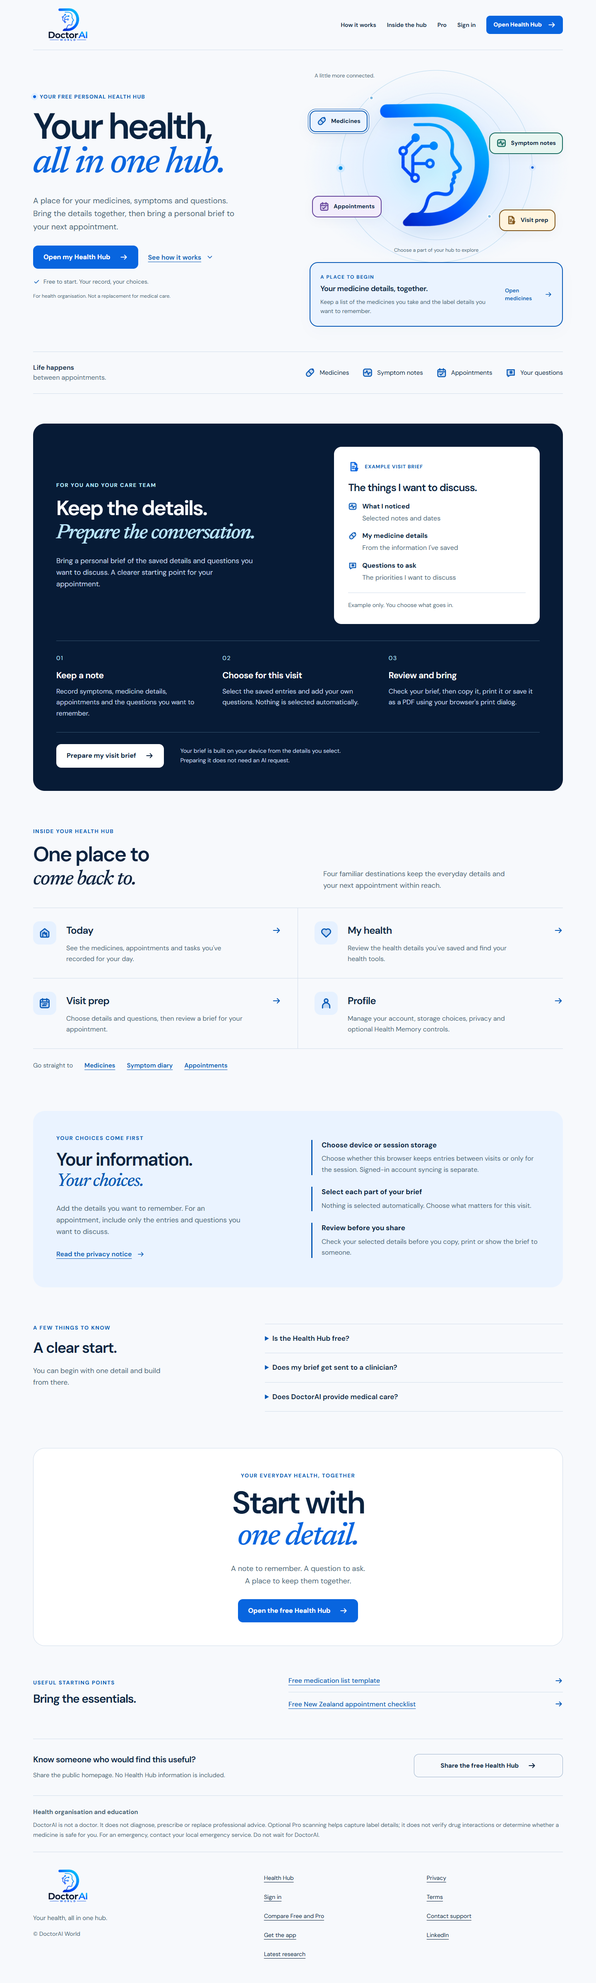
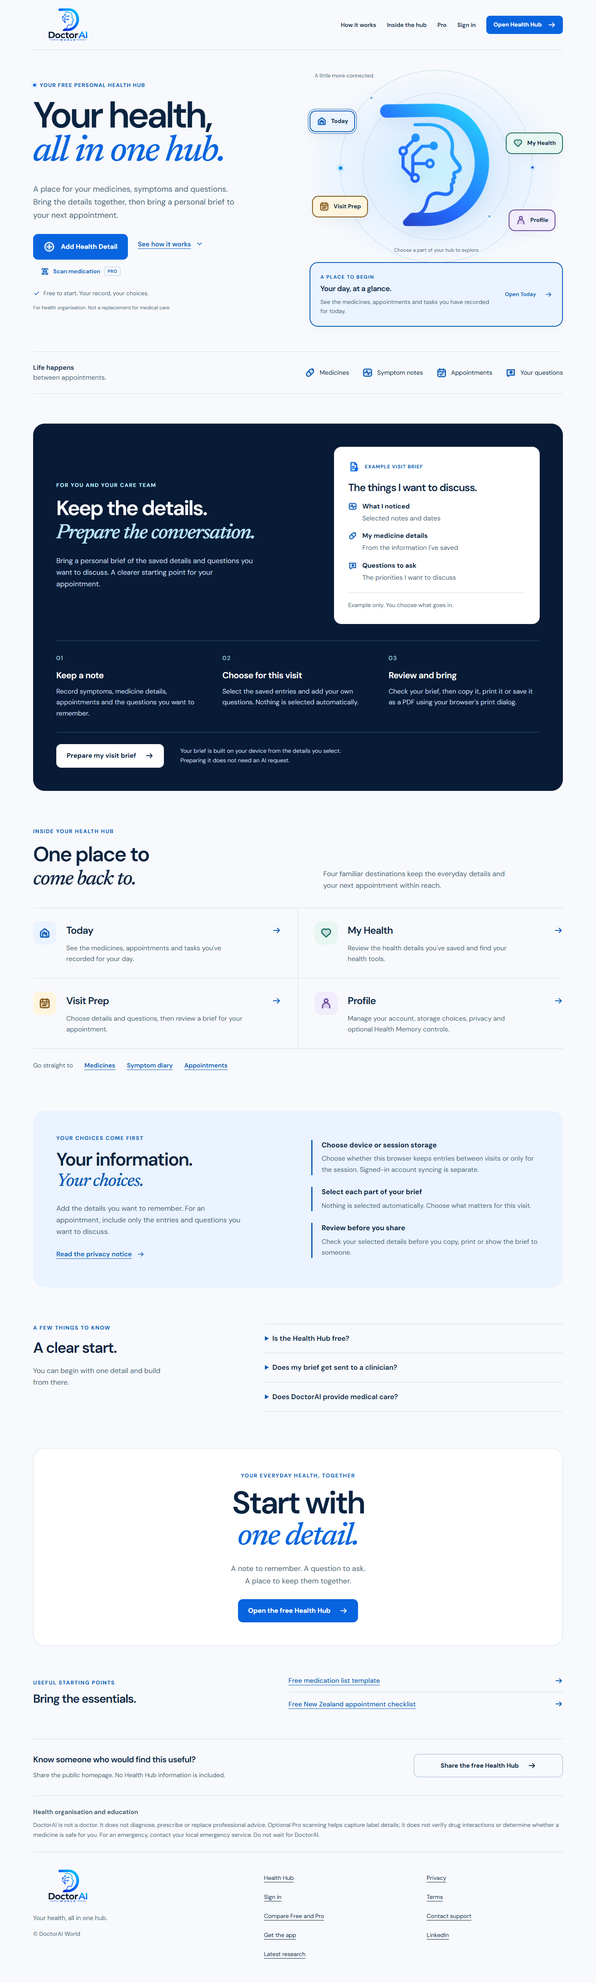
Align homepage with main categories and add-detail actions

diff --git a/welcome.css b/welcome.css
@@ -12,12 +12,12 @@
   --home-paper: #f7f9fc;
   --home-line: #d2deeb;
   --home-gutter: clamp(20px, 4vw, 64px);
-  --home-medicines-surface: #eaf3ff;
-  --home-medicines-accent: #0759b6;
-  --home-symptoms-surface: #e8f6f1;
-  --home-symptoms-accent: #176b60;
-  --home-appointments-surface: #f2edfc;
-  --home-appointments-accent: #65439b;
+  --home-today-surface: #eaf3ff;
+  --home-today-accent: #0759b6;
+  --home-health-surface: #e8f6f1;
+  --home-health-accent: #176b60;
+  --home-profile-surface: #f2edfc;
+  --home-profile-accent: #65439b;
   --home-visit-surface: #fff4de;
   --home-visit-accent: #805418;
 }
@@ -62,7 +62,15 @@ h1, h2, h3 { margin: 0; }
 .home-hero h1 em { display: block; color: var(--home-bright); }
 .home-hero em, .home-section-heading em, .home-control em, .home-invitation em { font-family: 'Newsreader', Georgia, serif; font-weight: 500; letter-spacing: -.04em; }
 .home-lead { max-width: 39ch; margin: 28px 0 0; font-size: 19px; color: var(--home-muted); }
-.home-actions { display: flex; align-items: center; flex-wrap: wrap; gap: 12px 24px; margin-top: 30px; }
+.home-actions { display: flex; align-items: flex-start; flex-wrap: wrap; gap: 12px 24px; margin-top: 30px; }
+.home-add-actions { display: grid; gap: 6px; max-width: 100%; }
+.home-add-detail { gap: 14px; justify-content: flex-start; }
+.home-add-detail > span { width: 28px; height: 28px; flex-basis: 28px; }
+.home-add-detail svg { stroke-width: 2.6; }
+.home-scan-link { display: flex; align-items: center; justify-content: center; gap: 10px; min-height: 44px; padding: 8px 12px; color: var(--home-blue); font-size: 14px; font-weight: 600; text-decoration: none; border-radius: 9px; }
+.home-scan-link:hover { text-decoration: underline; background: #eaf3ff; }
+.home-scan-link > span { display: inline-flex; width: 21px; height: 21px; flex: 0 0 21px; }
+.home-scan-link small { padding: 3px 7px; border: 1px solid #b6cae1; border-radius: 5px; font-size: 11px; line-height: 1.3; letter-spacing: .04em; text-transform: uppercase; }
 .home-control-note { display: flex; align-items: center; gap: 8px; margin: 20px 0 0; font-size: 14px; color: var(--home-muted); }
 .home-control-note > span { display: inline-flex; width: 17px; height: 17px; color: var(--home-blue); }
 .home-hero-limit { max-width: 46ch; margin: 14px 0 0; color: var(--home-muted); font-size: 12px; }
@@ -84,20 +92,20 @@ h1, h2, h3 { margin: 0; }
 .home-orbit-track span { position: absolute; width: 9px; height: 9px; top: 50%; left: -4px; border-radius: 50%; background: #078de0; box-shadow: 0 0 0 6px #d2ebff; }
 .home-orbit-track span + span { left: auto; right: -4px; width: 6px; height: 6px; background: #0761d7; box-shadow: 0 0 0 5px #dbeaff; }
 .home-logo-tilt { position: absolute; inset: -13% 4% -5%; transform: perspective(850px) rotateX(var(--home-tilt-x, 0deg)) rotateY(var(--home-tilt-y, 0deg)); transition: transform .35s ease-out; }
-.home-hero-logo { display: block; width: 100%; height: 100%; object-fit: contain; filter: drop-shadow(0 18px 16px #0759b61c); animation: home-logo-float 7s ease-in-out infinite; animation-play-state: paused; }
+.home-hero-logo { display: block; opacity: .84; width: 100%; height: 100%; object-fit: contain; filter: drop-shadow(0 18px 16px #0759b61c); animation: home-logo-float 7s ease-in-out infinite; animation-play-state: paused; }
 .home-motion-ready:not(.home-motion-paused) :is(.home-hero-logo, .home-orbit-track) { animation-play-state: running; }
-[data-home-theme="medicines"], .home-orbit-medicines { --home-topic-surface: var(--home-medicines-surface); --home-topic-accent: var(--home-medicines-accent); }
-[data-home-theme="symptoms"], .home-orbit-symptoms { --home-topic-surface: var(--home-symptoms-surface); --home-topic-accent: var(--home-symptoms-accent); }
-[data-home-theme="appointments"], .home-orbit-appointments { --home-topic-surface: var(--home-appointments-surface); --home-topic-accent: var(--home-appointments-accent); }
+[data-home-theme="today"], .home-orbit-today { --home-topic-surface: var(--home-today-surface); --home-topic-accent: var(--home-today-accent); }
+[data-home-theme="health"], .home-orbit-health { --home-topic-surface: var(--home-health-surface); --home-topic-accent: var(--home-health-accent); }
+[data-home-theme="profile"], .home-orbit-profile { --home-topic-surface: var(--home-profile-surface); --home-topic-accent: var(--home-profile-accent); }
 [data-home-theme="visit"], .home-orbit-visit { --home-topic-surface: var(--home-visit-surface); --home-topic-accent: var(--home-visit-accent); }
 .home-orbit-topic { position: absolute; display: inline-flex; align-items: center; gap: 10px; min-height: 52px; max-width: 48%; padding: 11px 15px; border: 2px solid var(--home-topic-accent); border-radius: 15px; background: var(--home-topic-surface); color: var(--home-ink); box-shadow: 0 7px 24px #0a234009; font-size: 14px; font-weight: 700; line-height: 1.4; text-align: left; cursor: pointer; transition: box-shadow .2s ease, transform .2s ease; }
 .home-orbit-topic > span { display: inline-flex; width: 25px; height: 25px; flex: 0 0 25px; color: var(--home-topic-accent); }
 .home-orbit-topic:hover { transform: translateY(-3px); box-shadow: 0 10px 24px #0a234010; }
 .home-orbit-topic[aria-pressed="true"] { box-shadow: 0 0 0 3px var(--home-paper), 0 0 0 4px var(--home-topic-accent), 0 8px 28px #0a234010; }
-.home-orbit-medicines { top: 15%; left: 0; }
-.home-orbit-symptoms { top: 28%; right: 0; }
-.home-orbit-appointments { bottom: 22%; left: 1%; }
-.home-orbit-visit { bottom: 14%; right: 3%; }
+.home-orbit-today { top: 15%; left: 0; }
+.home-orbit-health { top: 28%; right: 0; }
+.home-orbit-visit { bottom: 22%; left: 1%; }
+.home-orbit-profile { bottom: 14%; right: 3%; }
 .home-orbit-caption { position: absolute; bottom: 0; width: 100%; margin: 0; color: var(--home-muted); text-align: center; font-size: 12px; }
 .home-topic-detail { position: relative; display: flex; align-items: center; justify-content: space-between; gap: 22px; min-height: 156px; margin-top: 18px; padding: 22px 24px; border: 2px solid var(--home-topic-accent); border-radius: 20px; background: var(--home-topic-surface); box-shadow: 0 12px 32px #173b6705; }
 .home-topic-kicker { margin: 0 0 6px; color: var(--home-topic-accent); text-transform: uppercase; letter-spacing: .12em; font-size: 12px; font-weight: 700; }
@@ -148,7 +156,7 @@ h1, h2, h3 { margin: 0; }
 .home-destination { display: grid; grid-template-columns: 56px minmax(0, 1fr); gap: 24px; padding: 32px 0; border-bottom: 1px solid var(--home-line); }
 .home-destination:nth-child(odd) { padding-right: 40px; border-right: 1px solid var(--home-line); }
 .home-destination:nth-child(even) { padding-left: 40px; }
-.home-destination-icon { display: inline-flex; align-items: center; justify-content: center; width: 56px; height: 56px; padding: 13px; border-radius: 15px; background: #e6f1ff; color: var(--home-blue); }
+.home-destination-icon { display: inline-flex; align-items: center; justify-content: center; width: 56px; height: 56px; padding: 13px; border-radius: 15px; background: var(--home-topic-surface); color: var(--home-topic-accent); }
 .home-destination h3 { font-size: 24px; line-height: 1.3; letter-spacing: -.035em; font-weight: 600; }
 .home-destination h3 a { display: flex; align-items: center; justify-content: space-between; gap: 16px; min-height: 44px; color: var(--home-ink); text-decoration: none; }
 .home-destination h3 a:hover { color: var(--home-blue); text-decoration: underline; }
@@ -201,7 +209,7 @@ h1, h2, h3 { margin: 0; }
 .home-copyright { color: var(--home-muted); font-size: 14px; }
 .home-footer nav { display: flex; flex-direction: column; align-items: flex-start; gap: 2px; }
 .home-footer nav a { display: inline-flex; align-items: center; min-height: 44px; font-size: 14px; color: var(--home-ink); }
-.home-button svg, .home-text-link svg, .home-icon svg, .home-topics svg, .home-brief-rows svg, .home-destination svg, .home-resources svg, .home-orbit-topic svg, .home-topic-link svg, .home-control-note svg { display: block; width: 100%; height: 100%; fill: none; stroke: currentColor; stroke-width: 2; stroke-linecap: round; stroke-linejoin: round; }
+.home-scan-link svg, .home-button svg, .home-text-link svg, .home-icon svg, .home-topics svg, .home-brief-rows svg, .home-destination svg, .home-resources svg, .home-orbit-topic svg, .home-topic-link svg, .home-control-note svg { display: block; width: 100%; height: 100%; fill: none; stroke: currentColor; stroke-width: 2; stroke-linecap: round; stroke-linejoin: round; }
 .home-orbit-topic svg { stroke-width: 2.6; }
 @media (max-width: 1080px) {
   .home-nav { gap: 18px; }
@@ -256,7 +264,8 @@ h1, h2, h3 { margin: 0; }
   .home-hero h1 { max-width: 11ch; font-size: clamp(48px, 11.5vw, 68px); }
   .home-lead { margin-top: 24px; font-size: 18px; }
   .home-actions { align-items: stretch; gap: 10px; margin-top: 24px; }
-  .home-actions .home-button { width: 100%; justify-content: space-between; }
+  .home-add-actions { width: 100%; }
+  .home-actions .home-button { width: 100%; justify-content: center; }
   .home-actions .home-text-link { padding-inline: 2px; }
   .home-control-note { margin-top: 12px; }
   .home-brief { padding: 22px; border-radius: 14px; }
@@ -268,10 +277,10 @@ h1, h2, h3 { margin: 0; }
   .home-logo-tilt { inset: -8% -4% -2%; }
   .home-orbit-topic { min-height: 46px; padding: 10px 12px; border-radius: 12px; gap: 7px; font-size: 12px; }
   .home-orbit-topic > span { width: 19px; height: 19px; flex-basis: 19px; }
-  .home-orbit-medicines { top: 12%; }
-  .home-orbit-symptoms { top: 30%; }
-  .home-orbit-appointments { bottom: 25%; left: 0; }
-  .home-orbit-visit { bottom: 12%; right: 0; }
+  .home-orbit-today { top: 12%; }
+  .home-orbit-health { top: 30%; }
+  .home-orbit-visit { bottom: 25%; left: 0; }
+  .home-orbit-profile { bottom: 12%; right: 0; }
   .home-topic-detail { min-height: 192px; margin-top: 20px; }
   .home-hero-limit { font-size: 12px; }
   .home-brief-heading { gap: 8px; margin-bottom: 20px; }

diff --git a/index.html b/index.html
@@ -57,14 +57,17 @@
         <h1 id="hero-title">Your health,<em>all in one hub.</em></h1>
         <p class="home-lead">A place for your medicines, symptoms and questions. Bring the details together, then bring a personal brief to your next appointment.</p>
         <div class="home-actions">
-          <a class="home-button" href="/health-hub">Open my Health Hub <span data-doctorai-icon="arrow" data-icon-size="flex" aria-hidden="true"></span></a>
+          <div class="home-add-actions">
+            <a class="home-button home-add-detail" href="/health-hub#add"><span data-doctorai-icon="add" data-icon-size="flex" aria-hidden="true"></span>Add Health Detail</a>
+            <a class="home-scan-link" href="/health-hub#scan"><span data-doctorai-icon="hubMedicationScan" data-icon-size="flex" aria-hidden="true"></span>Scan medication <small>Pro</small></a>
+          </div>
           <a class="home-text-link" href="#how-it-works">See how it works <span data-doctorai-icon="chevronDown" data-icon-size="flex" aria-hidden="true"></span></a>
         </div>
         <p class="home-control-note"><span data-doctorai-icon="check" data-icon-size="flex" aria-hidden="true"></span>Free to start. Your record, your choices.</p>
         <p class="home-hero-limit">For health organisation. Not a replacement for medical care.</p>
       </div>
 
-      <div class="home-universe" data-home-universe data-home-theme="medicines">
+      <div class="home-universe" data-home-universe data-home-theme="today">
         <div class="home-universe-toolbar">
           <p class="home-universe-label">A little more connected.</p>
           <button class="home-motion-control" type="button" data-home-motion hidden>Pause animation</button>
@@ -79,16 +82,16 @@
             </div>
           </div>
           <div class="home-orbit-topics" data-home-topics role="group" aria-label="Explore the Health Hub" hidden>
-            <button class="home-orbit-topic home-orbit-medicines" type="button" data-home-topic="medicines" aria-pressed="true" aria-controls="home-topic-detail"><span data-doctorai-icon="capsule" data-icon-size="flex" aria-hidden="true"></span>Medicines</button>
-            <button class="home-orbit-topic home-orbit-symptoms" type="button" data-home-topic="symptoms" aria-pressed="false" aria-controls="home-topic-detail"><span data-doctorai-icon="pulse" data-icon-size="flex" aria-hidden="true"></span>Symptom notes</button>
-            <button class="home-orbit-topic home-orbit-appointments" type="button" data-home-topic="appointments" aria-pressed="false" aria-controls="home-topic-detail"><span data-doctorai-icon="calendar" data-icon-size="flex" aria-hidden="true"></span>Appointments</button>
-            <button class="home-orbit-topic home-orbit-visit" type="button" data-home-topic="visit" aria-pressed="false" aria-controls="home-topic-detail"><span data-doctorai-icon="carePack" data-icon-size="flex" aria-hidden="true"></span>Visit prep</button>
+            <button class="home-orbit-topic home-orbit-today" type="button" data-home-topic="today" aria-pressed="true" aria-controls="home-topic-detail"><span data-doctorai-icon="hubHome" data-icon-size="flex" aria-hidden="true"></span>Today</button>
+            <button class="home-orbit-topic home-orbit-health" type="button" data-home-topic="health" aria-pressed="false" aria-controls="home-topic-detail"><span data-doctorai-icon="health" data-icon-size="flex" aria-hidden="true"></span>My Health</button>
+            <button class="home-orbit-topic home-orbit-visit" type="button" data-home-topic="visit" aria-pressed="false" aria-controls="home-topic-detail"><span data-doctorai-icon="hubVisitPrep" data-icon-size="flex" aria-hidden="true"></span>Visit Prep</button>
+            <button class="home-orbit-topic home-orbit-profile" type="button" data-home-topic="profile" aria-pressed="false" aria-controls="home-topic-detail"><span data-doctorai-icon="person" data-icon-size="flex" aria-hidden="true"></span>Profile</button>
           </div>
           <p class="home-orbit-caption" data-home-tour-hint hidden>Choose a part of your hub to explore</p>
         </div>
         <div class="home-topic-detail" id="home-topic-detail">
-          <div aria-live="polite" aria-atomic="true"><p class="home-topic-kicker">A place to begin</p><h2 data-home-topic-title>Your medicine details, together.</h2><p data-home-topic-copy>Keep a list of the medicines you take and the label details you want to remember.</p></div>
-          <a class="home-topic-link" data-home-topic-link href="/health-hub#medications">Open medicines <span data-doctorai-icon="arrow" data-icon-size="flex" aria-hidden="true"></span></a>
+          <div aria-live="polite" aria-atomic="true"><p class="home-topic-kicker">A place to begin</p><h2 data-home-topic-title>Your day, at a glance.</h2><p data-home-topic-copy>See the medicines, appointments and tasks you have recorded for today.</p></div>
+          <a class="home-topic-link" data-home-topic-link href="/health-hub#today">Open Today <span data-doctorai-icon="arrow" data-icon-size="flex" aria-hidden="true"></span></a>
         </div>
       </div>
     </section>
@@ -140,19 +143,19 @@
         <p>Four familiar destinations keep the everyday details and your next appointment within reach.</p>
       </div>
       <div class="home-destination-grid">
-        <article class="home-destination">
+        <article class="home-destination" data-home-theme="today">
           <span class="home-destination-icon" data-doctorai-icon="hubHome" data-icon-size="flex" aria-hidden="true"></span>
           <div><h3><a href="/health-hub#today">Today <span data-doctorai-icon="arrow" data-icon-size="flex" aria-hidden="true"></span></a></h3><p>See the medicines, appointments and tasks you've recorded for your day.</p></div>
         </article>
-        <article class="home-destination">
+        <article class="home-destination" data-home-theme="health">
           <span class="home-destination-icon" data-doctorai-icon="health" data-icon-size="flex" aria-hidden="true"></span>
-          <div><h3><a href="/health-hub#health">My health <span data-doctorai-icon="arrow" data-icon-size="flex" aria-hidden="true"></span></a></h3><p>Review the health details you've saved and find your health tools.</p></div>
+          <div><h3><a href="/health-hub#health">My Health <span data-doctorai-icon="arrow" data-icon-size="flex" aria-hidden="true"></span></a></h3><p>Review the health details you've saved and find your health tools.</p></div>
         </article>
-        <article class="home-destination">
+        <article class="home-destination" data-home-theme="visit">
           <span class="home-destination-icon" data-doctorai-icon="hubVisitPrep" data-icon-size="flex" aria-hidden="true"></span>
-          <div><h3><a href="/health-hub#visit-prep">Visit prep <span data-doctorai-icon="arrow" data-icon-size="flex" aria-hidden="true"></span></a></h3><p>Choose details and questions, then review a brief for your appointment.</p></div>
+          <div><h3><a href="/health-hub#visit-prep">Visit Prep <span data-doctorai-icon="arrow" data-icon-size="flex" aria-hidden="true"></span></a></h3><p>Choose details and questions, then review a brief for your appointment.</p></div>
         </article>
-        <article class="home-destination">
+        <article class="home-destination" data-home-theme="profile">
           <span class="home-destination-icon" data-doctorai-icon="person" data-icon-size="flex" aria-hidden="true"></span>
           <div><h3><a href="/health-hub#profile">Profile <span data-doctorai-icon="arrow" data-icon-size="flex" aria-hidden="true"></span></a></h3><p>Manage your account, storage choices, privacy and optional Health Memory controls.</p></div>
         </article>

diff --git a/welcome.js b/welcome.js
@@ -10,10 +10,10 @@
   if (!universe) return;
 
   const topics = {
-    medicines: { title: 'Your medicine details, together.', copy: 'Keep a list of the medicines you take and the label details you want to remember.', label: 'Open medicines', href: '/health-hub#medications' },
-    symptoms: { title: 'A note today. Context for later.', copy: 'Record what you notice, when it happens and the details you want to discuss with your clinician.', label: 'Open symptom diary', href: '/health-hub#symptoms' },
-    appointments: { title: 'Make room for your next visit.', copy: 'Keep appointment dates and your own notes together, ready to come back to when you need them.', label: 'Open appointments', href: '/health-hub#appointments' },
-    visit: { title: 'Your next conversation, prepared.', copy: 'Choose saved details, add your questions and review your personal brief before you copy or print it.', label: 'Open visit prep', href: '/health-hub#visit-prep' }
+    today: { title: 'Your day, at a glance.', copy: 'See the medicines, appointments and tasks you have recorded for today.', label: 'Open Today', href: '/health-hub#today' },
+    health: { title: 'Your health details, together.', copy: 'Review the details you have saved and find your health tools in one place.', label: 'Open My Health', href: '/health-hub#health' },
+    visit: { title: 'Your next conversation, prepared.', copy: 'Choose saved details, add your questions and review your personal brief before you copy or print it.', label: 'Open Visit Prep', href: '/health-hub#visit-prep' },
+    profile: { title: 'Your information. Your choices.', copy: 'Manage your account, storage preferences, privacy and optional Health Memory controls.', label: 'Open Profile', href: '/health-hub#profile' }
   };
   const buttons = [...universe.querySelectorAll('[data-home-topic]')];
   const title = universe.querySelector('[data-home-topic-title]');

diff --git a/docs/design/homepage-20261015/README.md b/docs/design/homepage-20261015/README.md
@@ -1,6 +1,6 @@
 # DoctorAI homepage review
 
-This homepage makes the existing DoctorAI brand the centrepiece: the canonical head mark floats gently inside an orbit of four selectable Health Hub topics. Each selection explains a real destination and offers a direct link. The existing full logo remains in the header and footer. A clearly labelled example visit brief connects the introduction to the product's useful next step.
+This homepage makes the existing DoctorAI brand the centrepiece: the canonical head mark floats gently inside an orbit of the four main categories: Today, My Health, Visit Prep and Profile. The animated logo is slightly transparent (84% opacity). Each selection explains a real destination and offers a direct link. The existing full logo remains in the header and footer. A clearly labelled example visit brief connects the introduction to the product's useful next step.
 
 ## Scope and baseline
 
@@ -11,18 +11,20 @@ This homepage makes the existing DoctorAI brand the centrepiece: the canonical h
 - Work was done in a fresh clone and isolated branch. No other local checkout or M-folder work was edited.
 - No generated artwork, video, AI requests or paid services were used.
 
-## Four icon themes
+## Four categories and add-detail action
 
 The four hero entry points have distinct soft surfaces, 2px accent outlines, bolder 2.6px SVG strokes and navy labels. Selecting a topic also applies its surface/accent pair to the detail card and its destination link. The selected state retains an extra outline ring and `aria-pressed`.
 
 | Topic | Surface | Icon / outline | Destination | Icon and link contrast |
 | --- | --- | --- | --- | --- |
-| Medicines | `#EAF3FF` | `#0759B6` | `/health-hub#medications` | 6.03:1 |
-| Symptom notes | `#E8F6F1` | `#176B60` | `/health-hub#symptoms` | 5.71:1 |
-| Appointments | `#F2EDFC` | `#65439B` | `/health-hub#appointments` | 6.47:1 |
-| Visit prep | `#FFF4DE` | `#805418` | `/health-hub#visit-prep` | 6.02:1 |
+| Today | `#EAF3FF` | `#0759B6` | `/health-hub#today` | 6.03:1 |
+| My Health | `#E8F6F1` | `#176B60` | `/health-hub#health` | 5.71:1 |
+| Visit Prep | `#FFF4DE` | `#805418` | `/health-hub#visit-prep` | 6.02:1 |
+| Profile | `#F2EDFC` | `#65439B` | `/health-hub#profile` | 6.47:1 |
 
 Navy labels (`#0A2340`) exceed 13:1 contrast on every surface; supporting copy (`#465F73`) exceeds 5.8:1. These values were measured from browser computed styles. [Exact tokens and ownership handoff](theme-tokens.md) are provided for the separately owned destination-page themes; no destination page was changed in this revision.
+
+The clear plus action, **Add Health Detail**, opens the existing secondary category picker at `/health-hub#add`: Medication, Health profile, Symptom, Appointment, Measurement, and Document or photo. **Scan medication · Pro** sits directly below and links to the existing scanner start page at `/health-hub#scan`. The homepage does not initiate a scan, access a camera or bypass the app's consent/access checks.
 
 ## Screenshots
 
@@ -44,7 +46,7 @@ These are **local source previews**, served with the repository's Content Securi
 - `git diff --check`: passed.
 - Headless Microsoft Edge browser checks: see the exact version, timestamp, assertions and responsive results in [homepage-browser-checks.json](homepage-browser-checks.json).
 
-Browser checks cover all four topic states at 320, 360, 390, 640, 768, 860, 900, 1080, 1280 and 1440 pixels; no horizontal overflow or overlapping topic controls; targets at least 44 pixels high; keyboard skip link, focus and selection; touch selection; pointer tilt and reset; pause/resume; offscreen pause; reduced motion; forced colours; no-JavaScript fallback; FAQ expansion; all original homepage links and eleven legacy hash redirects; local route responses; and the public sharing fallback. The share test replaces clipboard access in the isolated browser context, so it does not change the user's clipboard or send a message.
+Browser checks cover all four topic states at 320, 360, 390, 640, 768, 860, 900, 1080, 1280 and 1440 pixels; no horizontal overflow or overlapping topic controls; targets at least 44 pixels high; the exact requested category labels, subtle logo opacity, plus and scanner link placement/navigation; keyboard skip link, focus and selection; touch selection; pointer tilt and reset; pause/resume; offscreen pause; reduced motion; forced colours; no-JavaScript fallback; FAQ expansion; all original homepage links and eleven legacy hash redirects; local route responses; and the public sharing fallback. The share test replaces clipboard access in the isolated browser context, so it does not change the user's clipboard or send a message.
 
 The tour does not read health data, write browser storage or make API requests. No console errors, page errors, failed requests or CSP violations were observed in the passing run. The 200% check uses CSS zoom; the 320px viewport also checks narrow reflow. These checks are not a comprehensive screen-reader or real-device audit.
 

diff --git a/docs/design/homepage-20261015/theme-tokens.md b/docs/design/homepage-20261015/theme-tokens.md
@@ -1,14 +1,16 @@
-# Shared four-topic theme mapping
+# Shared four-category theme mapping
 
-Homepage owner: PR70, branch `codex/astra-homepage-20261015`. Destination pages remain owned by Luna. These tokens are ready for the corresponding page themes.
+Homepage owner: PR70, branch `codex/astra-homepage-20261015`. Destination pages remain owned by Luna. The user requested the four main categories below. This mapping replaces the earlier Medicines / Symptom notes / Appointments tour mapping.
 
 | Topic | Soft surface | Accent / bold outline | Homepage token prefix | Destination |
 | --- | --- | --- | --- | --- |
-| Medicines | `#EAF3FF` | `#0759B6` | `--home-medicines-` | `/health-hub#medications` |
-| Symptom notes | `#E8F6F1` | `#176B60` | `--home-symptoms-` | `/health-hub#symptoms` |
-| Appointments | `#F2EDFC` | `#65439B` | `--home-appointments-` | `/health-hub#appointments` |
-| Visit prep | `#FFF4DE` | `#805418` | `--home-visit-` | `/health-hub#visit-prep` |
+| Today | `#EAF3FF` | `#0759B6` | `--home-today-` | `/health-hub#today` |
+| My Health | `#E8F6F1` | `#176B60` | `--home-health-` | `/health-hub#health` |
+| Visit Prep | `#FFF4DE` | `#805418` | `--home-visit-` | `/health-hub#visit-prep` |
+| Profile | `#F2EDFC` | `#65439B` | `--home-profile-` | `/health-hub#profile` |
 
 Each prefix has `surface` and `accent` tokens. Labels use navy `#0A2340`; supporting copy uses `#465F73`. Homepage badges use a 2px accent border and 2.6 SVG stroke width. The selected topic detail card adopts the same surface/accent pair, including its link. Selected state also has an extra outline ring and `aria-pressed`, so it is not indicated by colour alone. Existing reduced-motion, forced-colour, links and pause controls remain.
 
 The homepage revision changes only `index.html`, `welcome.css`, `welcome.js` and homepage QA evidence. Do not apply these tokens to clinical warning/severity colours. No destination page or shared stylesheet has been edited by the homepage owner.
+
+The logo is 84% opaque. The primary `+ Add Health Detail` action opens `/health-hub#add` and its existing six-choice picker: Medication, Health profile, Symptom, Appointment, Measurement, Document or photo. The separate `Scan medication` link with a Pro badge sits beneath it and opens `/health-hub#scan`; existing scanner consent and access checks remain in the app.
